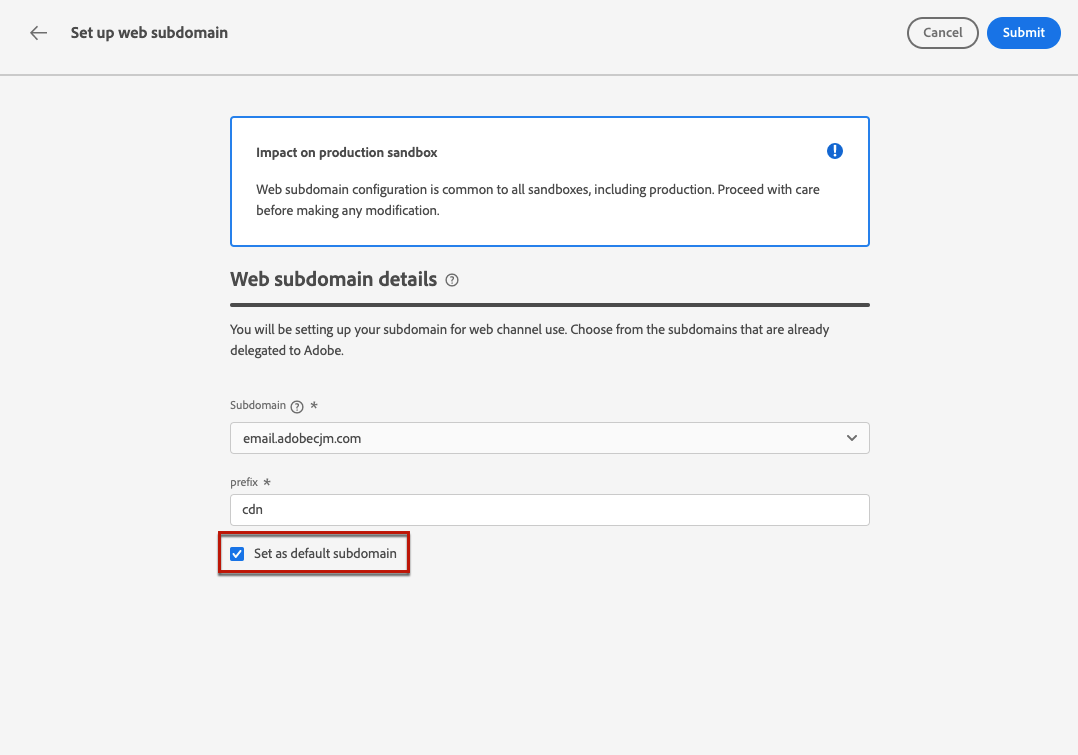
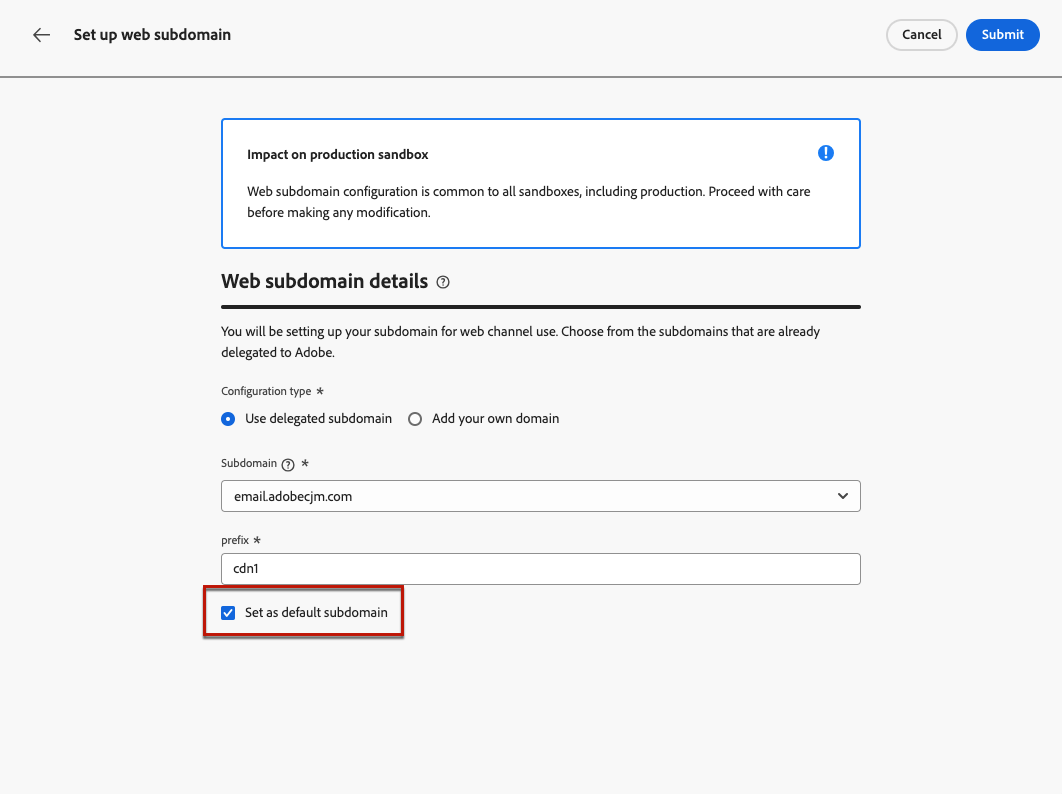
add your own web subdomain (#1430)

diff --git a/help/using/web/web-delegated-subdomains.md b/help/using/web/web-delegated-subdomains.md
@@ -13,12 +13,12 @@ exl-id: 6503d9e6-6c6c-4a6d-ad3d-1d81eb3b4698
 >[!CONTEXTUALHELP]
 >id="ajo_admin_subdomain_web_header"
 >title="Delegate a web subdomain"
->abstract="You will be setting up your subdomain for web channel use. Choose from the subdomains that are already delegated to Adobe."
+>abstract="You will be setting up your subdomain for web channel use. You can use a subdomain that is already delegated to Adobe or configure another subdomain."
 
 >[!CONTEXTUALHELP]
 >id="ajo_admin_subdomain_web"
 >title="Delegate a web subdomain"
->abstract="If you add content coming from the Adobe Experience Manager Assets Essentials to your web experiences, you  must set up the subdomain that will be used to publish this content. Select amongst the subdomains already delegated to Adobe."
+>abstract="If you add content coming from the Adobe Experience Manager Assets Essentials to your web experiences, you  must set up the subdomain that will be used to publish this content. Select amongst the subdomains already delegated to Adobe or configure a new subdomain."
 
 >[!CONTEXTUALHELP]
 >id="ajo_admin_subdomain_web_default"
@@ -27,7 +27,7 @@ exl-id: 6503d9e6-6c6c-4a6d-ad3d-1d81eb3b4698
 
 When authoring web experiences, if you add content coming from the [Adobe Experience Manager Assets Essentials](../content-management/assets-essentials.md) library, you  must set up the subdomain that will be used to publish this content.
 
-To do so, you must choose from the list of subdomains already delegated to Adobe. Learn more on delegating subdomains to Adobe in [this section](../configuration/delegate-subdomain.md).
+You can use a subdomain that is already delegated to Adobe, or you can configure another subdomain. Learn more on delegating subdomains to Adobe in [this section](../configuration/delegate-subdomain.md).
 
 >[!CAUTION]
 >
@@ -39,13 +39,33 @@ To do so, you must choose from the list of subdomains already delegated to Adobe
 
 You can create several web subdomains, but only the **default** subdomain will be used. You can change the default web subdomain, but only one can be used at a time.
 
-1. Access the **[!UICONTROL Administration]** > **[!UICONTROL Channels]** menu, then select **[!UICONTROL Web configuration]** > **[!UICONTROL Web subdomains]**.
+## Access and manage web subdomains {#access-web-subdomains}
+
+1. Go to the **[!UICONTROL Administration]** > **[!UICONTROL Channels]** menu, then select **[!UICONTROL Web configuration]** > **[!UICONTROL Web subdomains]**. All the subdomains set up with the current sandbox are displayed.
 
     ![](assets/web-access-subdomains.png)
 
+1. You can filter on the user who delegated each subdomain or one the delegation status (**[!UICONTROL Draft]**, **[!UICONTROL Processing]**, **[!UICONTROL Success]** or **[!UICONTROL Failed]**).
+
+    ![](assets/web-filter-subdomains.png)
+
+1. The **[!UICONTROL Default]** badge is displayed next the subdomain that is currently used as default. To change the default subdomain, select **[!UICONTROL Set as default]** from the **[!UICONTROL More actions]** button next to the desired subdomain.
+
+    ![](assets/web-subdomain-default.png)
+
+    >[!NOTE]
+    >
+    >You can change the default web subdomain, but only one can be used at a time.
+
+## Use an existing subdomain {#web-use-existing-subdomain}
+
+To use a subdomain that is already delegated to Adobe, follow the steps below.
+
+1. Access the **[!UICONTROL Administration]** > **[!UICONTROL Channels]** menu, then select **[!UICONTROL Web configuration]** > **[!UICONTROL Web subdomains]**.
+
 1. Click **[!UICONTROL Set up subdomain]**.
 
-1. Select a delegated subdomain from the list.
+1. Select the **[!UICONTROL Use delegated subdomain]** option from the **[!UICONTROL Configuration type]** section and choose a delegated subdomain from the list.
 
     ![](assets/web-subdomain-details.png)
 
@@ -69,14 +89,65 @@ You can create several web subdomains, but only the **default** subdomain will b
     >
     >In very rare occasions, a subdomain setup could fail. In this case, you can delete the **[!UICONTROL Failed]** subdomain to clean up the list using the **[!UICONTROL Delete]** button from the **[!UICONTROL More actions]** icon.
 
-1. The **[!UICONTROL Default]** badge is displayed next the subdomain that is currently used as default. To change the default subdomain, select **[!UICONTROL Set as default]** from the **[!UICONTROL More actions]** button next to the desired subdomain.
+## Configure a new subdomain {#web-configure-new-subdomain}
 
-    ![](assets/web-subdomain-default.png)
+>[!CONTEXTUALHELP]
+>id="ajo_admin_web_subdomain_dns"
+>title="Generate the matching DNS record"
+>abstract="To configure a new web subdomain, you need to copy the Adobe nameserver information displayed in the Journey Optimizer interface and paste it into your domain-hosting solution to generate the matching DNS record. Once the checks are successful, the subdomain is ready to be used to publish content coming from the Experience Manager Assets Essentials library."
+
+To configure a new subdomain, follow the steps below.
+
+1. Access the **[!UICONTROL Administration]** > **[!UICONTROL Channels]** menu, then select **[!UICONTROL web configuration]** > **[!UICONTROL web subdomains]**.
+
+1. Click **[!UICONTROL Set up subdomain]**.
+
+1. Select **[!UICONTROL Add your own domain]** from the **[!UICONTROL Configuration type]** section.
+
+1. Specify the subdomain to delegate.
+
+    >[!CAUTION]
+    >
+    >You cannot use an existing web subdomain.
+    >
+    >Capital letters are not allowed in subdomains.
+
+    ![](assets/web-add-your-own-domain.png)
+    
+    Delegating an invalid subdomain to Adobe is not allowed. Make sure you enter a valid subdomain which is owned by your organization, such as marketing.yourcompany.com.
+    
+    >[!NOTE]
+    >
+    >Multi-level subdomains (of the same parent domain) are supported. For example, you can use 'web.marketing.yourcompany.com'.
+
+1. To set this subdomain as default, select the corresponding option.
 
     >[!NOTE]
     >
-    >You can change the default web subdomain, but only one can be used at a time.
+    >Only the **default** subdomain will be used.
 
-    <!--Only a subdomain with the **[!UICONTROL Success]** status can be set as default.
+1. The record to be placed in your DNS servers displays. Copy this record, or download a CSV file, then navigate to your domain-hosting solution to generate the matching DNS record.
 
-    You cannot delete a subdomain with the **[!UICONTROL Processing]** status.-->
+1. Make sure that DNS record has been generated into your domain-hosting solution. If everything is configured properly, check the box "I confirm...", then click **[!UICONTROL Submit]**.
+
+    ![](assets/web-add-your-own-domain-confirm.png)
+
+    >[!NOTE]
+    >
+    >When you configure a new web subdomain, it will always point to a CNAME record.
+
+1. Once the subdomain delegation has been submitted, the subdomain displays in the list with the **[!UICONTROL Processing]** status. For more on subdomains' statuses, refer to [this section](../configuration/about-subdomain-delegation.md#access-delegated-subdomains).<!--Same statuses?-->
+
+    >[!NOTE]
+    >
+    >Before being able to use that subdomain to send web messages, you must wait until Adobe performs the required checks, which can take up to 4 hours.
+
+1. Once the checks are successful, the subdomain gets the **[!UICONTROL Success]** status. It is ready to be used to create web channel surfaces.
+
+    Note that the subdomain will be marked as **[!UICONTROL Failed]** if you fail to create the validation record on your hosting solution.
+
+
+<!--
+Only a subdomain with the **[!UICONTROL Success]** status can be set as default.
+You cannot delete a subdomain with the **[!UICONTROL Processing]** status.
+-->
